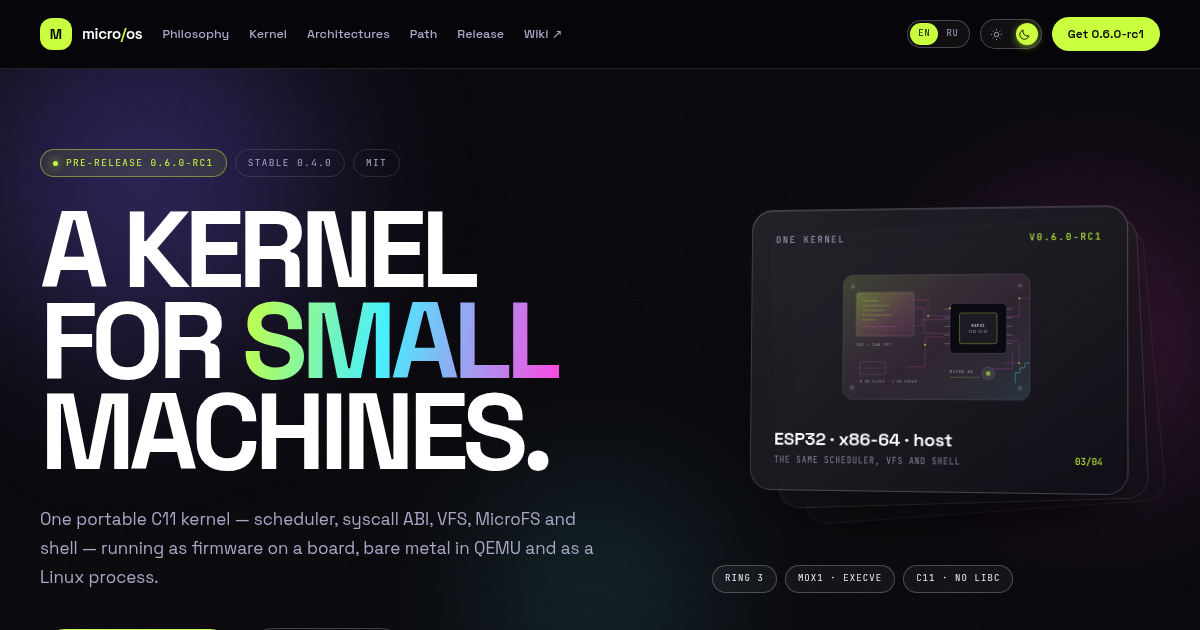
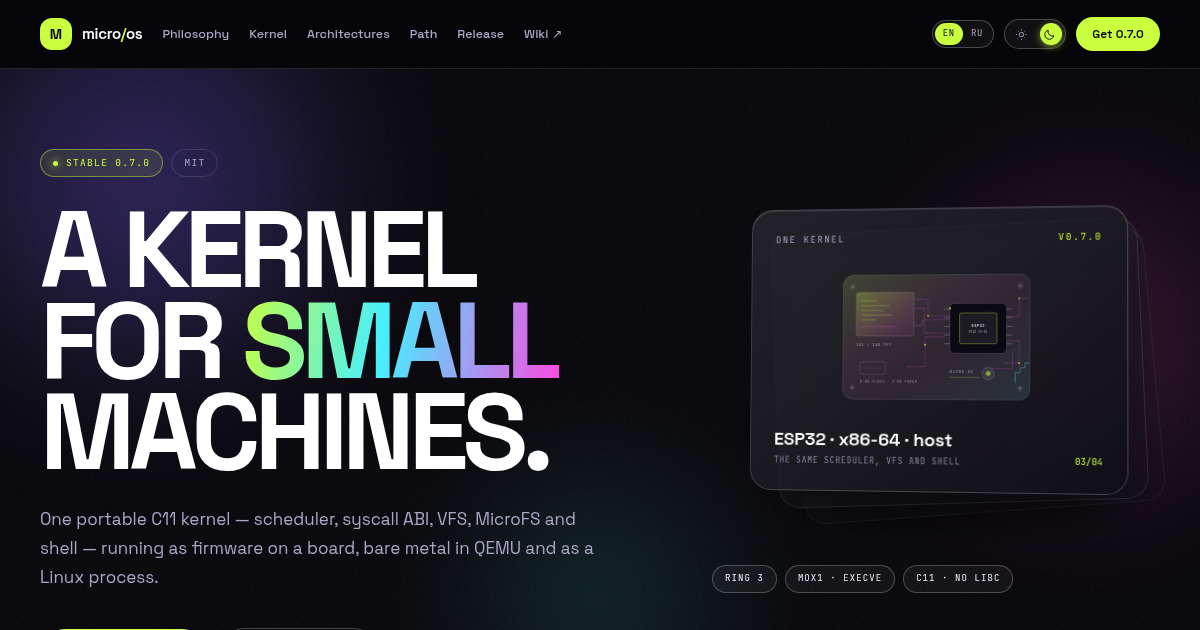
site: publish v0.7.0
The stable 0.7.0 replaces the 0.6.0-rc1 candidate: the hero, release
card and assets are the published ones, the contract is 1.7 and the
console demo prints 0.7.0.

The timeline gains 0.7 (pipes and dup2, signals and Ctrl+C, envp, a
libc and ten programs, ls -l and tree). What's next becomes 0.7.0
stable, then 0.8 (programs on disk, fsck -y, ext2 read-only, NX/W^X),
then the 1.0 gate. Asset sizes and names follow the release API.

diff --git a/src/i18n.tsx b/src/i18n.tsx
@@ -16,7 +16,7 @@ const en = {
   meta: {
     title: "Micro OS — a kernel for small machines",
     description:
-      "A portable C11 kernel for small machines: scheduler, syscall ABI, VFS, MicroFS and a shell on ESP32, bare metal x86-64 in QEMU and as a Linux process. Latest: v0.6.0-rc1.",
+      "A portable C11 kernel for small machines: scheduler, syscall ABI, VFS, MicroFS and a shell on ESP32, bare metal x86-64 in QEMU and as a Linux process. Latest: v0.7.0.",
     ogTitle: "Micro OS — a kernel for small machines",
     ogDescription:
       "One portable C11 kernel. The same scheduler, VFS and shell on an ESP32 board, on bare-metal x86-64 and in a Linux process.",
@@ -41,7 +41,6 @@ const en = {
     stackLabel: "Three ports of one kernel: ESP32, x86-64 and host",
   },
   hero: {
-    statusPre: "pre-release",
     statusStable: "stable",
     statusLicense: "MIT",
     titleA: "A kernel",
@@ -53,7 +52,7 @@ const en = {
     wiki: "Read the wiki",
     facts: [
       { label: "ports", value: "4" },
-      { label: "syscall contract", value: "1.6" },
+      { label: "syscall contract", value: "1.7" },
       { label: "language", value: "C11" },
     ],
     stack: {
@@ -112,7 +111,7 @@ const en = {
     lead: "The same scheduler, syscall ABI, VFS, MicroFS and shell build for a board, for bare metal and for a Linux process. Only the port changes.",
     diagram: {
       kernel: "portable kernel",
-      kernelSub: "plain C11 · contract 1.6",
+      kernelSub: "plain C11 · contract 1.7",
       kernelBody: "boot · sched · ksys · VFS · MicroFS · libc",
       boundary: "kernel/port/*.h",
       portsTitle: "one contract, three backends",
@@ -159,13 +158,13 @@ const en = {
           "page tables",
           "virtio-net",
           "ATA + MBR/GPT",
-          "61 smoke checks",
+          "smoke test",
         ],
         works: [
           "IDT/PIT, VGA text, PS/2 and COM1",
           "MicroFS on a disk that survives a reset",
           "execve, page tables, copy-on-write fork and EFAULT",
-          "eight MOX1 programs in /bin with a libc of their own",
+          "ten C programs in /bin with a libc of their own",
           "ARP/IPv4/ICMP/UDP/TCP, a DNS cache and httpd",
         ],
         limits: [
@@ -238,9 +237,16 @@ const en = {
         planned: false,
       },
       {
+        version: "0.7",
+        title: "Pipes and signals",
+        body: "pipes and dup2, signals with Ctrl+C, envp at the entry, a libc and ten programs in /bin, pipes and redirects (|, >, >>, <, 2>), ls -l with dates and tree.",
+        tag: "stable",
+        planned: false,
+      },
+      {
         version: "1.0",
         title: "The gate",
-        body: "Plan: pipes and signals with a real userland, a higher half, NX and a safe update.",
+        body: "Plan: a higher half, many cores with KERNEL_SMP, a safe update and .mox images on the ESP32.",
         tag: "plan",
         planned: true,
       },
@@ -276,7 +282,7 @@ const en = {
       {
         index: "04",
         title: "MOX1, execve, ring 3, fork",
-        body: "A program is a file: a 32-byte header, code and data. On x86-64 execve builds page tables, enters ring 3 and waits for the exit status; fork copies on write. A fault kills the program, not the shell.",
+        body: "A program is a file: a 32-byte header, code and data. On x86-64 execve builds page tables, enters ring 3 with argv and envp and waits for the exit status; fork copies on write. A fault kills the program, not the shell.",
         tag: "x86-64",
         planned: false,
       },
@@ -327,22 +333,22 @@ const en = {
     cards: [
       {
         phase: "now",
-        title: "v0.6.0-rc1",
-        body: "The release candidate: MicroFS timestamps, writable FAT, mount and fstab, the network on x86-64. A candidate, not a promise of stability.",
-        status: "pre-release",
+        title: "v0.7.0",
+        body: "Stable: pipes and redirects in the shell, signals and Ctrl+C, envp at the entry, a libc, ten C programs in /bin, ls -l and tree.",
+        status: "stable",
         current: true,
       },
       {
-        phase: "next",
-        title: "0.6.0-rc2 → 0.6.0",
-        body: "Fixes found by the checks, then the final of 0.6 if the checks agree. No dates; the tag follows the green tree.",
-        status: "planned",
+        phase: "0.8",
+        title: "Programs on disk",
+        body: "Programs become files on a filesystem instead of blobs in the image, fsck -y repairs FAT, ext2 arrives read-only, and NX/W^X closes writable-executable pages. Planned, no dates.",
+        status: "plan",
         current: false,
       },
       {
-        phase: "0.7",
-        title: "The open roadmap",
-        body: "The next minor takes the open kernel lines: a higher half and NX, pipes and signals with a real userland, a journal or repair for FAT. Design first.",
+        phase: "1.0",
+        title: "The 1.0 gate",
+        body: "A higher half, many cores with KERNEL_SMP, a safe update, and .mox images on the ESP32. Planned, no dates.",
         status: "plan",
         current: false,
       },
@@ -359,21 +365,21 @@ const en = {
   },
   release: {
     kicker: "08 — the release",
-    pre: "pre-release",
     date: "21 Nov 2026",
-    lead: "The candidate of 0.6. One image for the board, one bundle for QEMU — the kernel is the same in both.",
+    lead: "The stable release of 0.7. One image for the board, one bundle for QEMU — the kernel is the same in both.",
     notes: [
-      "MicroFS keeps the times of a change; statx reports them, and a version 1 volume still mounts.",
-      "FAT12/16/32 is read and written, long names included; /etc/fstab and mount/umount are at the console.",
-      "The x86-64 machine has a virtio-net card and its own IPv4/TCP stack.",
+      "The shell has pipes and redirects — |, >, >>, < and 2> — and Ctrl+C sends SIGINT to every stage of the chain.",
+      "A program receives argv and envp, inherits its descriptors and links against a libc; ten C programs live in /bin, from cat and grep to ls and wc.",
+      "Signals (SIGINT, SIGTERM, SIGCHLD), dup2 and an interrupted wait; ls -l prints mode, owner, size and date, and tree draws the levels below.",
     ],
     download: "Download .bin",
     github: "GitHub release",
     assets: [
-      { name: "MicroOS-0.6.0-rc1.bin", note: "the board, one image at 0x0", size: "972 KiB" },
-      { name: "MicroOS-x86_64-0.6.0-rc1.tar.gz", note: "the kernel and loader for QEMU", size: "78 KiB" },
+      { name: "MicroOS-0.7.0.bin", note: "the board, one image at 0x0", size: "981 KiB" },
+      { name: "MicroOS-x86_64-0.7.0.tar.gz", note: "the kernel and loader for QEMU", size: "96 KiB" },
+      { name: "micro_os.bin", note: "the application image alone", size: "917 KiB" },
       { name: "flash.sh", note: "writes the image; NVS and MicroFS stay", size: "2.3 KiB" },
-      { name: "checksums.txt", note: "SHA-256 of every binary", size: "334 B" },
+      { name: "checksums.txt", note: "SHA-256 of every binary", size: "330 B" },
     ],
     flash:
       "flash.sh writes the image at 0x0; NVS and MicroFS stay. The release keeps no executable bit — chmod +x first.",
@@ -404,7 +410,7 @@ const ru: Dictionary = {
   meta: {
     title: "Micro OS — ядро для малых машин",
     description:
-      "Портируемое ядро на C11 для малых машин: планировщик, ABI системных вызовов, VFS, MicroFS и shell на ESP32, на голом x86-64 в QEMU и в процессе Linux. Актуальное: v0.6.0-rc1.",
+      "Портируемое ядро на C11 для малых машин: планировщик, ABI системных вызовов, VFS, MicroFS и shell на ESP32, на голом x86-64 в QEMU и в процессе Linux. Актуальное: v0.7.0.",
     ogTitle: "Micro OS — ядро для малых машин",
     ogDescription:
       "Одно портируемое ядро на C11. Тот же планировщик, VFS и shell на плате ESP32, на голом x86-64 и в процессе Linux.",
@@ -429,7 +435,6 @@ const ru: Dictionary = {
     stackLabel: "Три порта одного ядра: ESP32, x86-64 и host",
   },
   hero: {
-    statusPre: "пре-релиз",
     statusStable: "стабильный",
     statusLicense: "MIT",
     titleA: "Ядро для",
@@ -441,7 +446,7 @@ const ru: Dictionary = {
     wiki: "Открыть вики",
     facts: [
       { label: "порта", value: "4" },
-      { label: "контракт syscall", value: "1.6" },
+      { label: "контракт syscall", value: "1.7" },
       { label: "язык", value: "C11" },
     ],
     stack: {
@@ -500,7 +505,7 @@ const ru: Dictionary = {
     lead: "Тот же планировщик, ABI системных вызовов, VFS, MicroFS и shell собираются для платы, для голого металла и для процесса Linux. Меняется только порт.",
     diagram: {
       kernel: "портируемое ядро",
-      kernelSub: "чистый C11 · контракт 1.6",
+      kernelSub: "чистый C11 · контракт 1.7",
       kernelBody: "boot · sched · ksys · VFS · MicroFS · libc",
       boundary: "kernel/port/*.h",
       portsTitle: "один контракт, три бэкенда",
@@ -547,13 +552,13 @@ const ru: Dictionary = {
           "page tables",
           "virtio-net",
           "ATA + MBR/GPT",
-          "61 smoke-проверка",
+          "smoke-тест",
         ],
         works: [
           "IDT/PIT, текстовый VGA, PS/2 и COM1",
           "MicroFS на диске, который переживает reset",
           "execve, свои page tables, fork с copy-on-write и EFAULT",
-          "восемь программ MOX1 в /bin со своей libc",
+          "десять программ на C в /bin со своей libc",
           "ARP/IPv4/ICMP/UDP/TCP, кэш DNS и httpd",
         ],
         limits: [
@@ -626,9 +631,16 @@ const ru: Dictionary = {
         planned: false,
       },
       {
+        version: "0.7",
+        title: "Пайпы и сигналы",
+        body: "pipes и dup2, сигналы с Ctrl+C, envp на входе, libc и десять программ в /bin, пайпы и редиректы (|, >, >>, <, 2>), ls -l с датами и tree.",
+        tag: "stable",
+        planned: false,
+      },
+      {
         version: "1.0",
         title: "Ворота",
-        body: "План: pipes и сигналы с настоящим userland, higher half, NX и безопасное обновление.",
+        body: "План: higher half, много ядер с KERNEL_SMP, безопасное обновление и образы .mox на ESP32.",
         tag: "план",
         planned: true,
       },
@@ -664,7 +676,7 @@ const ru: Dictionary = {
       {
         index: "04",
         title: "MOX1, execve, ring 3, fork",
-        body: "Программа — это файл: заголовок на 32 байта, код и данные. На x86-64 execve строит page tables, входит в ring 3 и ждёт статус выхода; fork копирует при записи. Падение убивает программу, а не shell.",
+        body: "Программа — это файл: заголовок на 32 байта, код и данные. На x86-64 execve строит page tables, входит в ring 3 с argv и envp и ждёт статус выхода; fork копирует при записи. Падение убивает программу, а не shell.",
         tag: "x86-64",
         planned: false,
       },
@@ -715,22 +727,22 @@ const ru: Dictionary = {
     cards: [
       {
         phase: "сейчас",
-        title: "v0.6.0-rc1",
-        body: "Кандидат релиза: метки времени MicroFS, записываемый FAT, mount и fstab, сеть на x86-64. Кандидат, а не обещание стабильности.",
-        status: "пре-релиз",
+        title: "v0.7.0",
+        body: "Стабильный релиз: пайпы и редиректы в shell, сигналы и Ctrl+C, envp на входе, libc, десять программ на C в /bin, ls -l и tree.",
+        status: "стабильный",
         current: true,
       },
       {
-        phase: "дальше",
-        title: "0.6.0-rc2 → 0.6.0",
-        body: "Исправления, которые найдут проверки, затем финал 0.6, если проверки согласятся. Без дат; тег следует за зелёным деревом.",
+        phase: "0.8",
+        title: "Программы на диске",
+        body: "Программы становятся файлами на файловой системе, а не блобами в образе; fsck -y чинит FAT, ext2 появляется только на чтение, NX/W^X закрывает страницы, доступные на запись и исполнение. План, без дат.",
         status: "план",
         current: false,
       },
       {
-        phase: "0.7",
-        title: "Открытый roadmap",
-        body: "Следующий минор берёт открытые линии ядра: higher half и NX, pipes и сигналы с настоящим userland, журнал или починку для FAT. Сначала дизайн.",
+        phase: "1.0",
+        title: "Ворота 1.0",
+        body: "Higher half, много ядер с KERNEL_SMP, безопасное обновление и образы .mox на ESP32. План, без дат.",
         status: "план",
         current: false,
       },
@@ -747,21 +759,21 @@ const ru: Dictionary = {
   },
   release: {
     kicker: "08 — релиз",
-    pre: "пре-релиз",
     date: "21 ноя 2026",
-    lead: "Кандидат 0.6. Один образ для платы, один архив для QEMU — ядро в них одно и то же.",
+    lead: "Стабильный релиз 0.7. Один образ для платы, один архив для QEMU — ядро в них одно и то же.",
     notes: [
-      "MicroFS хранит время изменения; statx его отдаёт, а том версии 1 всё ещё монтируется.",
-      "FAT12/16/32 читается и пишется, включая длинные имена; /etc/fstab и mount/umount доступны в консоли.",
-      "У машины x86-64 есть карта virtio-net и собственный стек IPv4/TCP.",
+      "В shell есть пайпы и редиректы — |, >, >>, < и 2>, — а Ctrl+C шлёт SIGINT каждой стадии цепочки.",
+      "Программа получает argv и envp, наследует дескрипторы и линкуется с libc; в /bin десять программ на C — от cat и grep до ls и wc.",
+      "Сигналы (SIGINT, SIGTERM, SIGCHLD), dup2 и прерванное ожидание; ls -l печатает режим, владельца, размер и дату, а tree рисует уровни ниже.",
     ],
     download: "Скачать .bin",
     github: "Релиз на GitHub",
     assets: [
-      { name: "MicroOS-0.6.0-rc1.bin", note: "плата, один образ по адресу 0x0", size: "972 КиБ" },
-      { name: "MicroOS-x86_64-0.6.0-rc1.tar.gz", note: "ядро и загрузчик для QEMU", size: "78 КиБ" },
+      { name: "MicroOS-0.7.0.bin", note: "плата, один образ по адресу 0x0", size: "981 КиБ" },
+      { name: "MicroOS-x86_64-0.7.0.tar.gz", note: "ядро и загрузчик для QEMU", size: "96 КиБ" },
+      { name: "micro_os.bin", note: "образ приложения отдельно", size: "917 КиБ" },
       { name: "flash.sh", note: "пишет образ; NVS и MicroFS остаются", size: "2.3 КиБ" },
-      { name: "checksums.txt", note: "SHA-256 каждого бинарника", size: "334 Б" },
+      { name: "checksums.txt", note: "SHA-256 каждого бинарника", size: "330 Б" },
     ],
     flash:
       "flash.sh пишет образ по адресу 0x0; NVS и MicroFS остаются. В релизе нет бита исполнения — сначала chmod +x.",

diff --git a/src/pages/KineticPage.tsx b/src/pages/KineticPage.tsx
@@ -182,10 +182,7 @@ export default function KineticPage() {
                 className="flex flex-wrap items-center gap-2"
               >
                 <span className="inline-flex items-center gap-2 rounded-full border border-[color-mix(in_srgb,var(--accent)_45%,transparent)] bg-[color-mix(in_srgb,var(--accent)_10%,transparent)] px-2.5 py-1 font-mono text-[8px] uppercase tracking-[0.12em] text-[var(--accent)] sm:px-3 sm:py-1.5 sm:text-[9.5px] sm:tracking-[0.14em]">
-                  <span className="term-dot" /> {t.hero.statusPre} {version}
-                </span>
-                <span className="rounded-full border border-[var(--line)] px-2.5 py-1 font-mono text-[8px] uppercase tracking-[0.12em] text-[var(--muted)] sm:px-3 sm:py-1.5 sm:text-[9.5px] sm:tracking-[0.14em]">
-                  {t.hero.statusStable} {stableVersion}
+                  <span className="term-dot" /> {t.hero.statusStable} {version}
                 </span>
                 <span className="rounded-full border border-[var(--line)] px-2.5 py-1 font-mono text-[8px] uppercase tracking-[0.12em] text-[var(--muted)] sm:px-3 sm:py-1.5 sm:text-[9.5px] sm:tracking-[0.14em]">
                   {t.hero.statusLicense}
@@ -550,7 +547,7 @@ export default function KineticPage() {
             </Reveal>
 
             <Stagger className="mt-12" gap={0.08}>
-              <ol className="ml-2 border-l border-[var(--line-strong)] xl:ml-0 xl:grid xl:grid-cols-6 xl:border-l-0 xl:border-t">
+              <ol className="ml-2 border-l border-[var(--line-strong)] xl:ml-0 xl:grid xl:grid-cols-7 xl:border-l-0 xl:border-t">
                 {t.timeline.items.map((item) => (
                   <li
                     key={item.version}
@@ -782,7 +779,7 @@ export default function KineticPage() {
                   <SectionKicker>{t.release.kicker}</SectionKicker>
                   <div className="flex items-center gap-2">
                     <span className="inline-flex items-center gap-2 rounded-full border border-[color-mix(in_srgb,var(--accent)_40%,transparent)] px-3 py-1.5 font-mono text-[8.5px] uppercase tracking-[0.12em] text-[var(--accent)]">
-                      <span className="term-dot" /> {t.release.pre}
+                      <span className="term-dot" /> {t.hero.statusStable}
                     </span>
                     <span className="rounded-full border border-[var(--line)] px-3 py-1.5 font-mono text-[8.5px] uppercase tracking-[0.12em] text-[var(--muted)]">
                       {t.release.date}

diff --git a/src/config.ts b/src/config.ts
@@ -22,14 +22,14 @@ export const RELEASES_URL = `${REPO_URL}/releases`;
 export const DOCS_URL = `${REPO_URL}/tree/mainline/docs`;
 export const LICENSE_URL = `${REPO_URL}/blob/mainline/LICENSE`;
 
-export const RELEASE_TAG = "v0.6.0-rc1";
+export const RELEASE_TAG = "v0.7.0";
 export const RELEASE_URL = `${REPO_URL}/releases/tag/${RELEASE_TAG}`;
-export const DOWNLOAD_URL = `${REPO_URL}/releases/download/${RELEASE_TAG}/MicroOS-0.6.0-rc1.bin`;
-export const X86_URL = `${REPO_URL}/releases/download/${RELEASE_TAG}/MicroOS-x86_64-0.6.0-rc1.tar.gz`;
+export const DOWNLOAD_URL = `${REPO_URL}/releases/download/${RELEASE_TAG}/MicroOS-0.7.0.bin`;
+export const X86_URL = `${REPO_URL}/releases/download/${RELEASE_TAG}/MicroOS-x86_64-0.7.0.tar.gz`;
 
 export const OG_IMAGE_URL = `${SITE_URL}og.png`;
 
-export const version = "0.6.0-rc1";
-export const stableVersion = "0.4.0";
+export const version = "0.7.0";
+export const stableVersion = "0.7.0";
 export const releaseDate = "21 Nov 2026";
-export const kernelContract = "1.6";
+export const kernelContract = "1.7";

diff --git a/index.html b/index.html
@@ -6,7 +6,7 @@
     <meta name="color-scheme" content="dark light" />
     <meta
       name="description"
-      content="A portable C11 kernel for small machines: scheduler, syscall ABI, VFS, MicroFS and a shell on ESP32, bare metal x86-64 in QEMU and as a Linux process. Latest: v0.6.0-rc1."
+      content="A portable C11 kernel for small machines: scheduler, syscall ABI, VFS, MicroFS and a shell on ESP32, bare metal x86-64 in QEMU and as a Linux process. Latest: v0.7.0."
     />
     <meta name="theme-color" content="#060509" />
     <meta name="robots" content="index, follow" />

diff --git a/src/components/ConsoleDemo.tsx b/src/components/ConsoleDemo.tsx
@@ -3,7 +3,7 @@ import { useEffect, useRef, useState } from "react";
 
 const LINES = [
   "microos> uname",
-  "MicroOS 0.6.0-rc1 x86_64 (build ...)",
+  "MicroOS 0.7.0 x86_64 (build ...)",
   "microos> exec hello",
   "PROGRAM: hello from /bin",
   "PROGRAM: cpl 3",

diff --git a/README.md b/README.md
@@ -46,10 +46,8 @@ The theme is separate: every page has a light/dark toggle, saved under
 `microos-theme`, starting from `prefers-color-scheme`. Both choices are applied
 before the first paint by the inline script in `index.html`.
 
-Facts come from the `Micro_OS_p7` worktree at `v0.6.0-rc1` and the published
-release. The page says 61 smoke checks because that is what
-`tools/x86_smoke.py` reports in this tree. “Next” and “plan” are marked as
-such; there are no invented dates.
+Facts come from the `v0.7.0` tree and the published release. “Next” and
+“plan” are marked as such; there are no invented dates.
 
 ## Addresses
 
